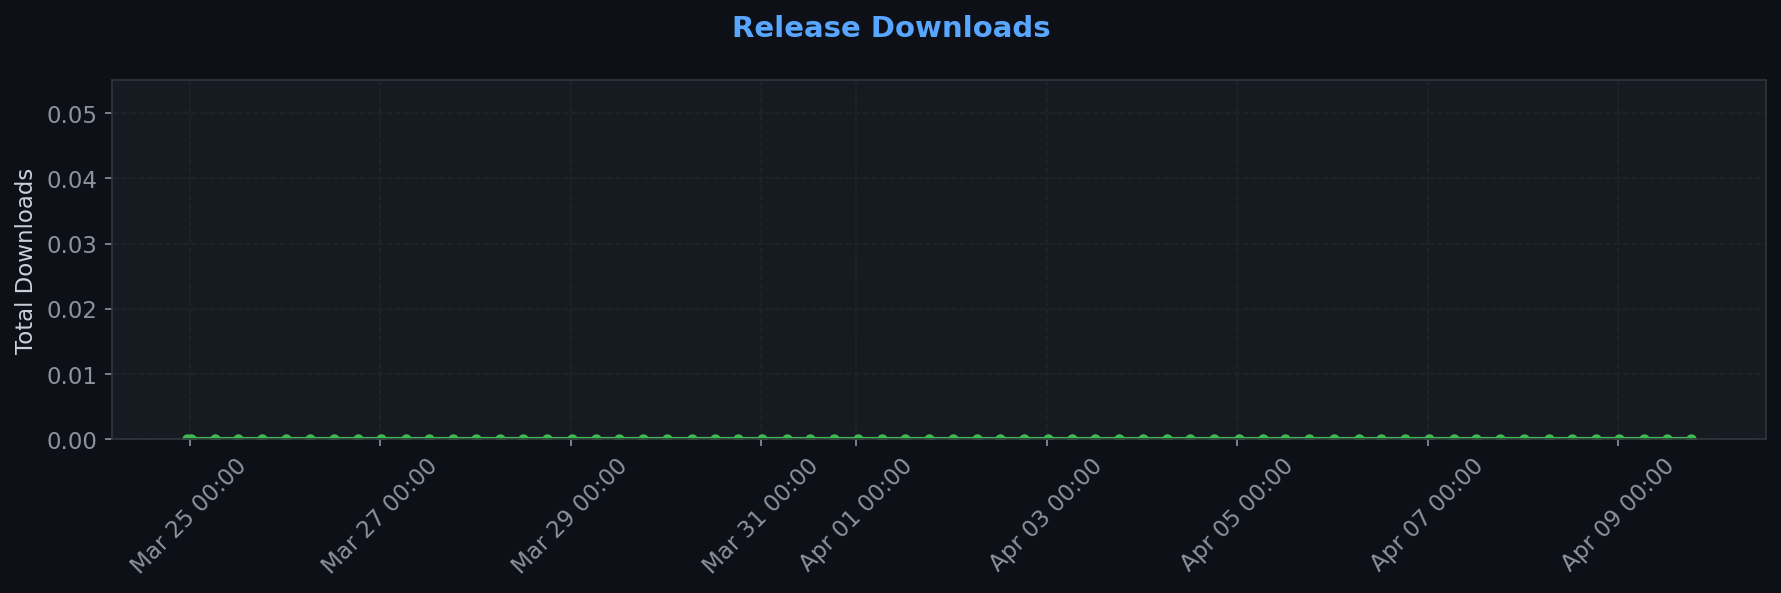
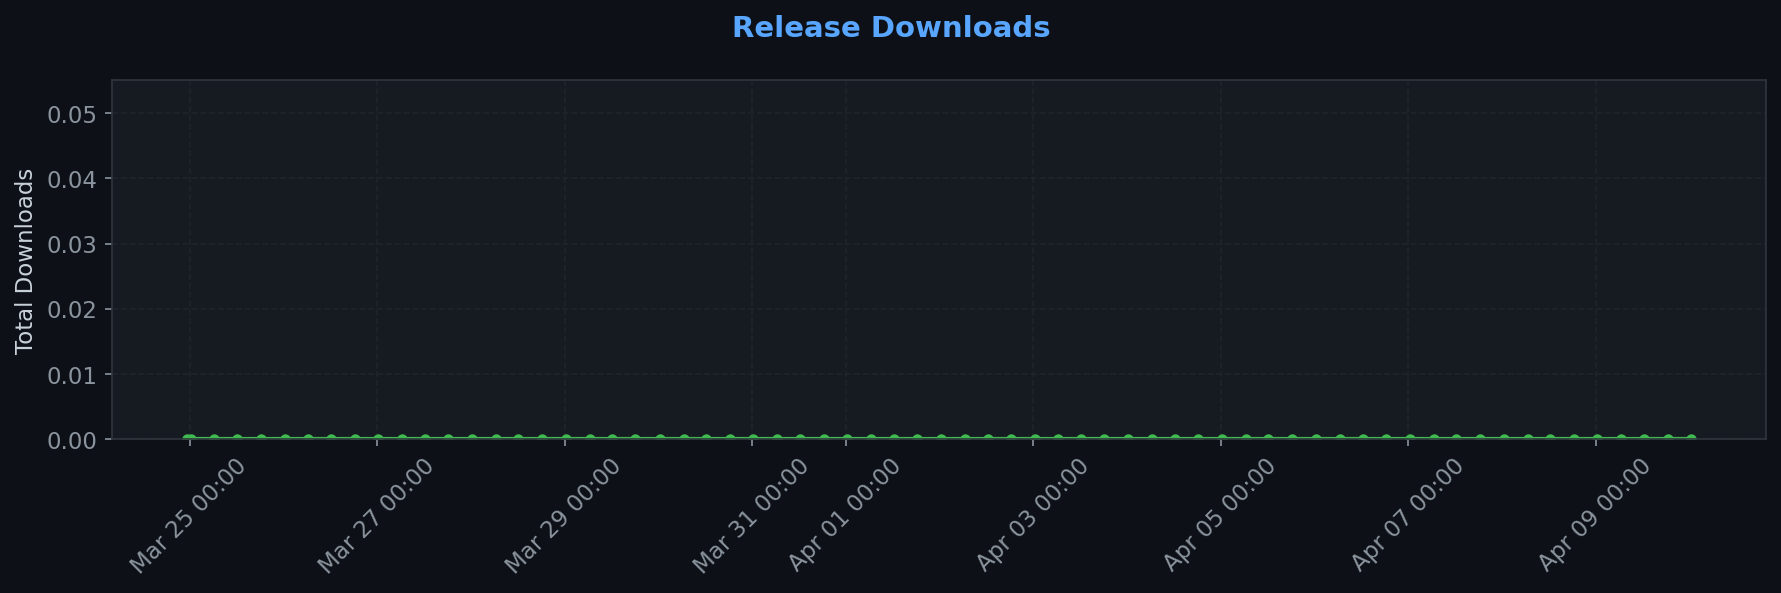
chore: Full traffic snapshot 2026-04-10_00:20

diff --git a/.github/traffic/SUMMARY.md b/.github/traffic/SUMMARY.md
@@ -1,7 +1,7 @@
 # Repository Traffic Dashboard
 
-**Last updated:** 2026-04-09T18:20:26Z
-**Days tracked:** 17 | **Download snapshots:** 65 (hourly)
+**Last updated:** 2026-04-10T00:20:39Z
+**Days tracked:** 18 | **Download snapshots:** 66 (hourly)
 
 ---
 
